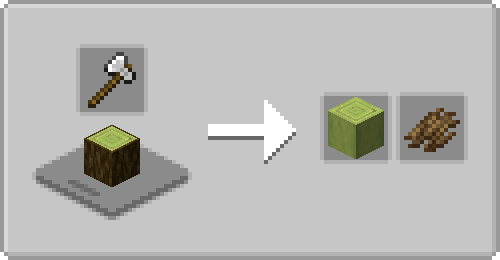
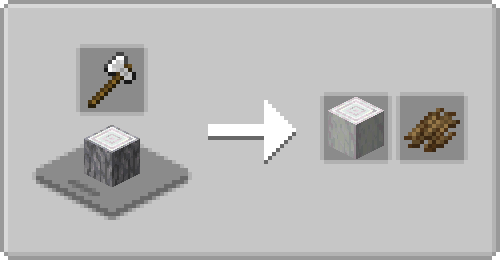
quark 1.19

Changed region(s): [[0.15, 0.4615, 0.3, 0.7385], [0.63, 0.3692, 0.78, 0.6154]]

diff --git a/quark/README.md b/quark/README.md
@@ -1,8 +1,8 @@
 # Farmer's Cutting: Quark
 Adds more [Farmer's Delight](https://modrinth.com/mod/farmers-delight) cutting board recipes for [Quark](https://modrinth.com/mod/quark)
 
-- Bark, stripping, recycling for all wood types
-- Seed Pouch recycling into rabbit hide
+- Bark, stripping, recycling for all wood types (straw from bamboo blocks)
+- Seed Pouch recycling into leather (rabbit hide in 1.18)
 
 ![Wood Cutting](media/woodcutting.png) ![Seed Pouch Cutting](media/seedpouchcutting.png)
 
